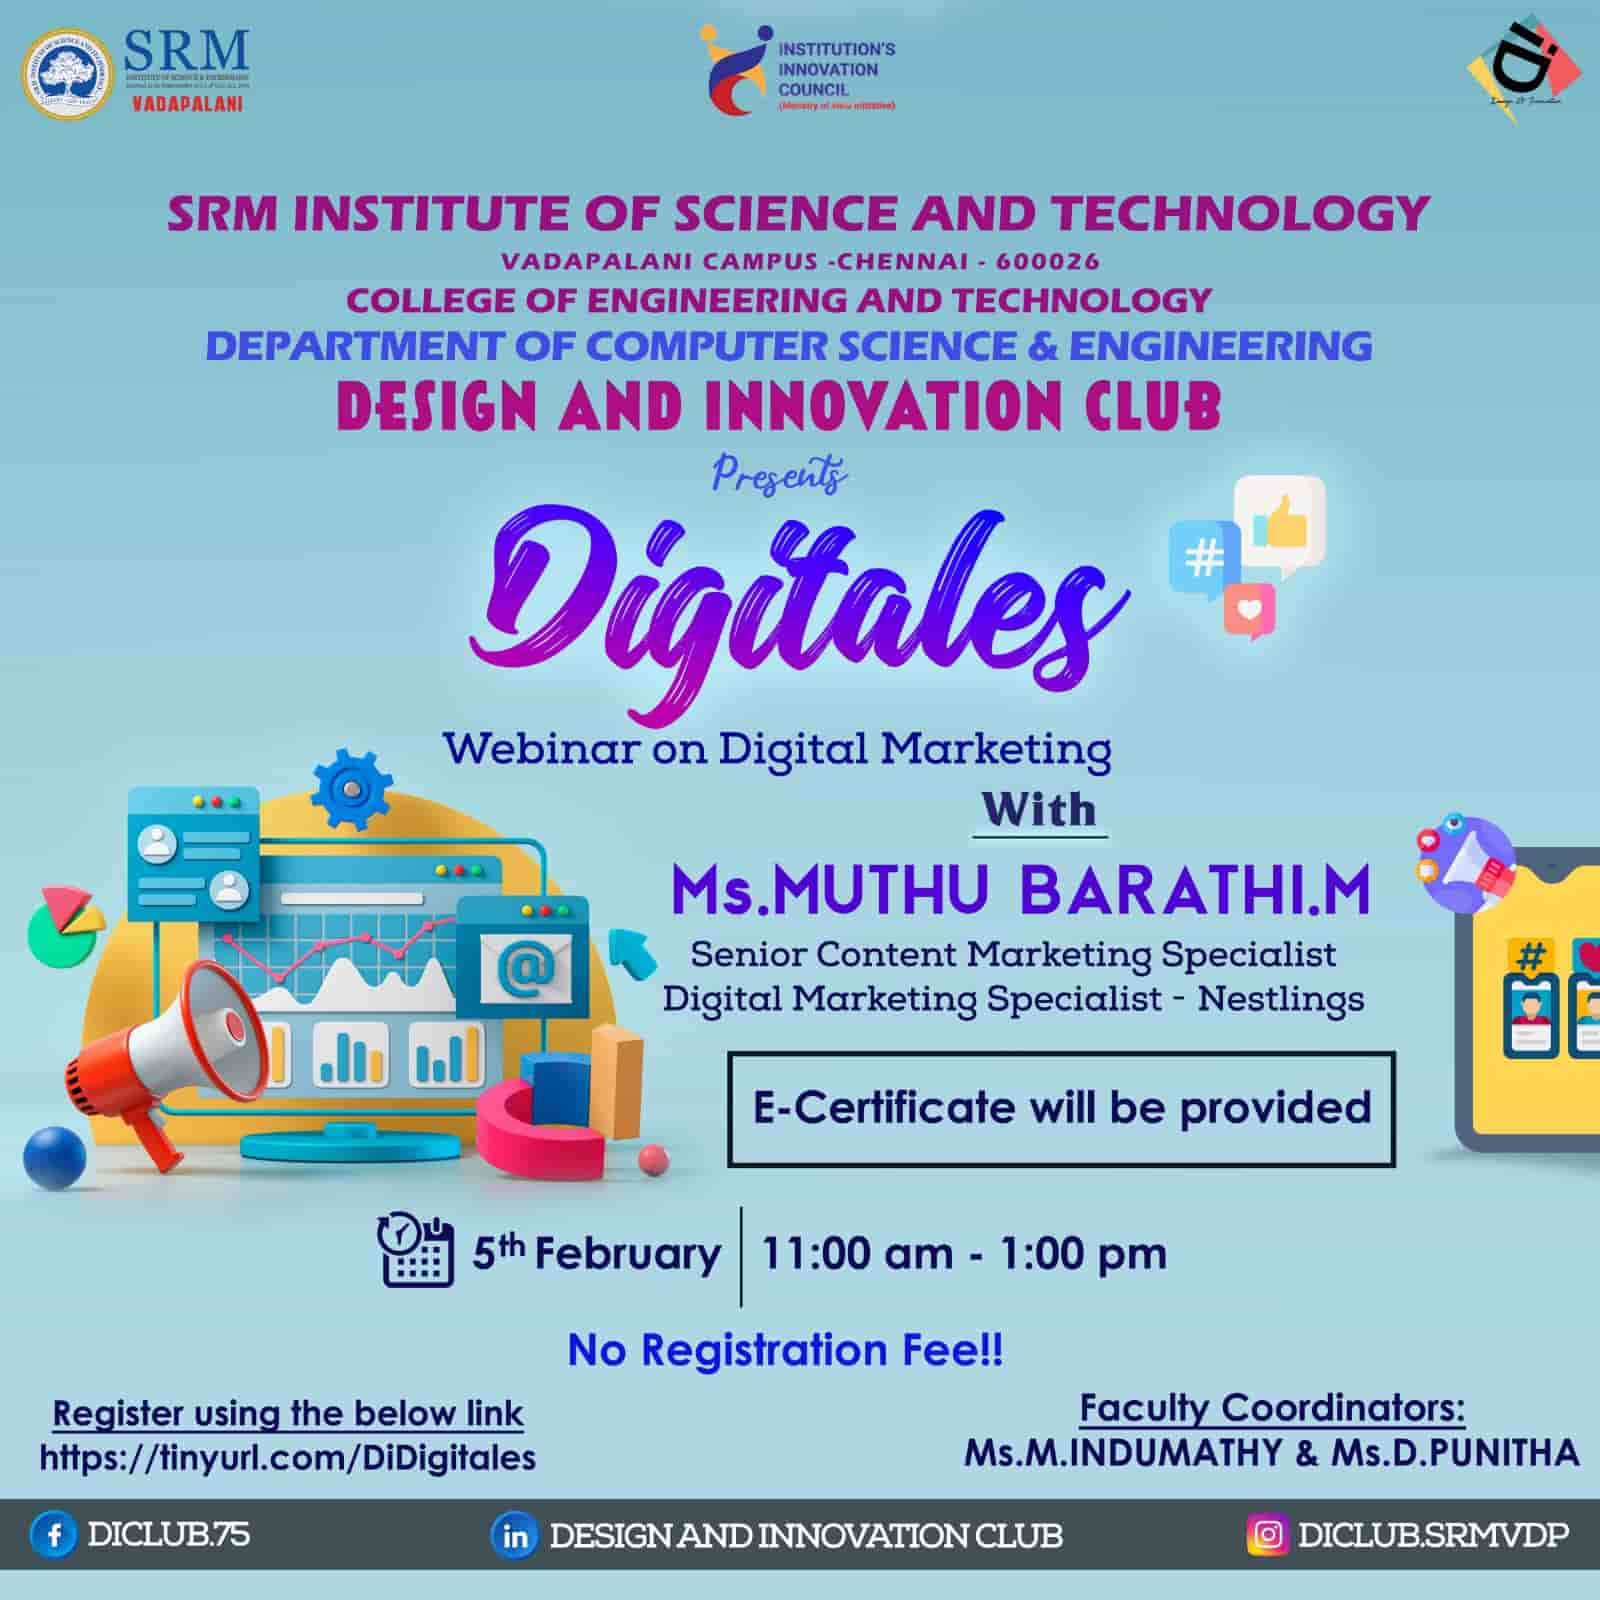
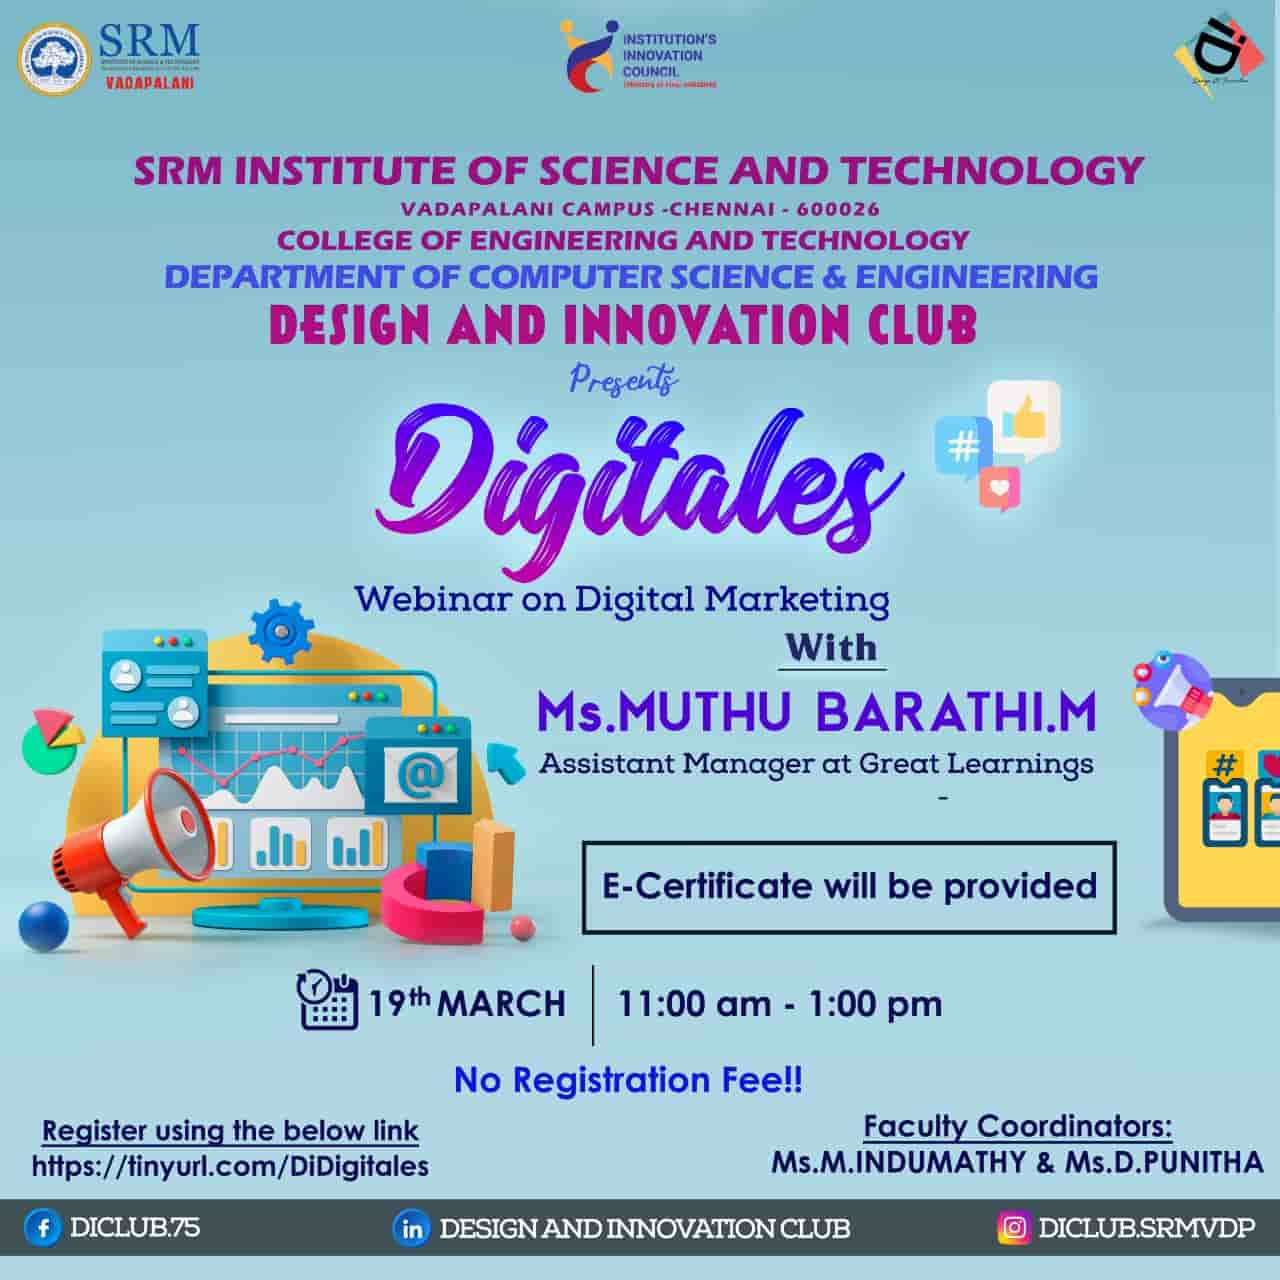
digitales

diff --git a/digitalMarketing_event.html b/digitalMarketing_event.html
@@ -21,7 +21,7 @@
     <link rel="stylesheet" type="text/css" href="vendor/animate/animate.css" />
     <link rel="stylesheet" type="text/css" href="vendor/aos/aos.css">
     <style>
-        
+
 
     </style>
   </head>
@@ -48,14 +48,14 @@
               <a class="navbar-brand" href="#page-top"><img src="assets/img/logo final white.png" alt="..."/></a>
               </ul>
           </div>
-         
+
       </div>
   </nav>
 
     <!-- Masthead-->
     <header class="hero-events">
      <div class="text-center">
-        <h2 class="section-heading text-uppercase">Digital Marketing Webinar</h2>
+        <h2 class="section-heading text-uppercase">Digitales</h2>
       </div>
     </header>
     <section id="about" class="page-section bg-light">
@@ -67,20 +67,20 @@
         <div class="row">
           <div class="col-6 aos-init aos-animate event-content" data-aos="fade-right" data-aos-delay="100">
             <h5>
-              Lorem ipsum dolor sit amet, consectetur adipiscing elit. Aenean vel malesuada neque. In in turpis sem. Nam sit amet nisl ut urna tempus molestie venenatis quis quam. Curabitur fermentum congue tortor vitae commodo. Ut ullamcorper nunc sed massa tristique dapibus. Vivamus vitae tortor augue. Proin luctus egestas metus eget laoreet. Donec pellentesque massa vitae tincidunt ornare. Maecenas risus metus, tristique sed mi non, semper hendrerit enim. Nunc faucibus, massa eu blandit aliquet, elit mi porta dui, ac ultricies neque eros eget sem. Aliquam eu augue tellus. Integer eleifend tortor facilisis purus convallis aliquet. Aliquam in turpis eu mi commodo varius vel non nisl.
-            </h5>      
-            <br><br> 
+              Digitales - Our digital marketing webinar was conducted by the DI Club on 19th March, 2022 with Ms.Muthu Barathi as the resource person. Various topics and insights were shared on digital marketing in the zoom platform. She covered topics like branding, advertisement, social media marketing and on content marketing. The participants found the session enlightenin
+            </h5>
+            <br><br>
 
-            <h6>Event: Digital Marketing Webinar</h6>
-            <b>Date of event</b> : 05th February 2022<br>
-        
-                          
-            <br><br>                  
+            <h6>Event: Digitales</h6>
+            <b>Date of event</b> : 19th March 2022<br>
+
+
+            <br><br>
           </div>
           <div class="col-lg-6">
-            <img src="assets\img\events\Digital Marketing.jpeg" class="event-image" style="margin-left: auto; margin-right: auto; display: block;"/>       
-          </div>             
-        </div> 
+            <img src="assets\img\events\Digital Marketing.jpeg" class="event-image" style="margin-left: auto; margin-right: auto; display: block;"/>
+          </div>
+        </div>
 
       </div>
     </section>
@@ -93,20 +93,20 @@
             <div class="col-sm-4">
               <div class="team-member">
                 <img class="rounded-circle timeline-image" src="assets/img/icons/user-icon.png">
-                  <h4>Kay Garland</h4>
-                  <p class="text-muted"><br>Sample text. Click to select the text box. Click again or double click to start editing the text.<br><br></p>
+                  <h4>Subriyaa</h4>
+                  <p class="text-muted"><br>Kindly conduct more webinars so that we could have a lot exposure.<br><br></p>
               </div>
             </div>
             <div class="col-sm-4">
               <div class="team-member"><img class="rounded-circle timeline-image" src="assets/img/icons/user-icon.png">
-                <h4>Larry Parker</h4>
-                  <p class="text-muted"><br>Sample text. Click to select the text box. Click again or double click to start editing the text.<br><br></p>
+                <h4>Jawahar V</h4>
+                  <p class="text-muted"><br>This was a great experience and got ideas about digital marketing and I hope to participate in further events<br><br></p>
               </div>
             </div>
             <div class="col-sm-4">
               <div class="team-member"><img class="rounded-circle timeline-image" src="assets/img/icons/user-icon.png">
-                <h4>Diana Pertersen</h4>
-                <p class="text-muted"><br>Sample text. Click to select the text box. Click again or double click to start editing the text.<br><br></p>
+                <h4> Siva</h4>
+                <p class="text-muted"><br>Thank you so much for conducting such a wonderful event… it was worth attending… Expecting to attend future programs<br><br></p>
               </div>
             </div>
           </div>
